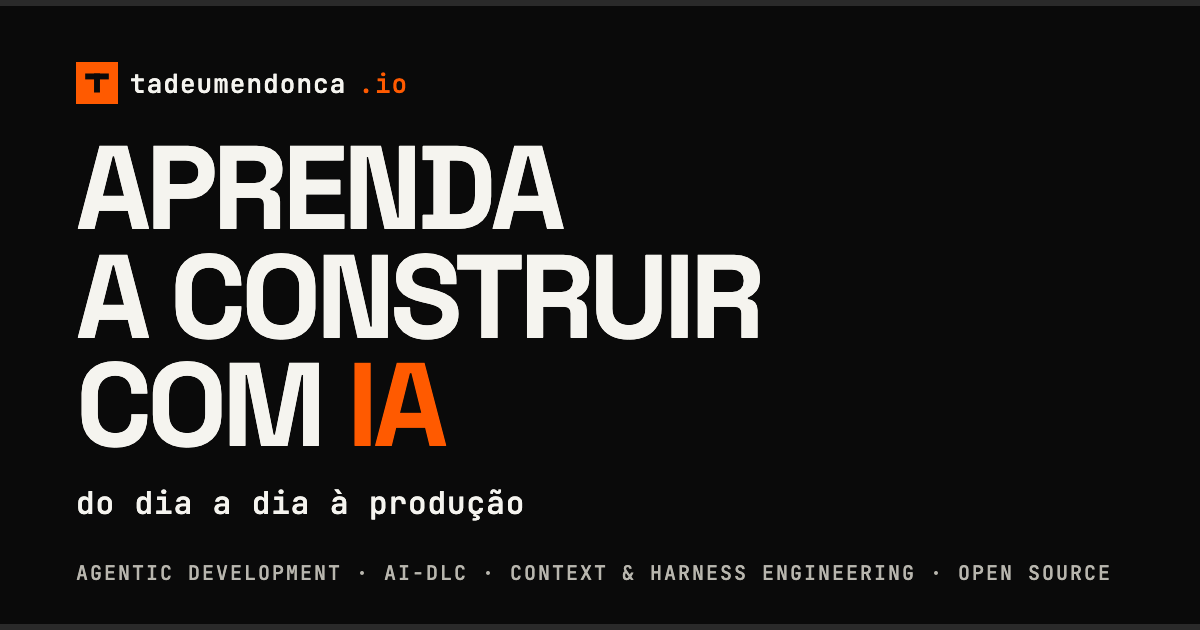
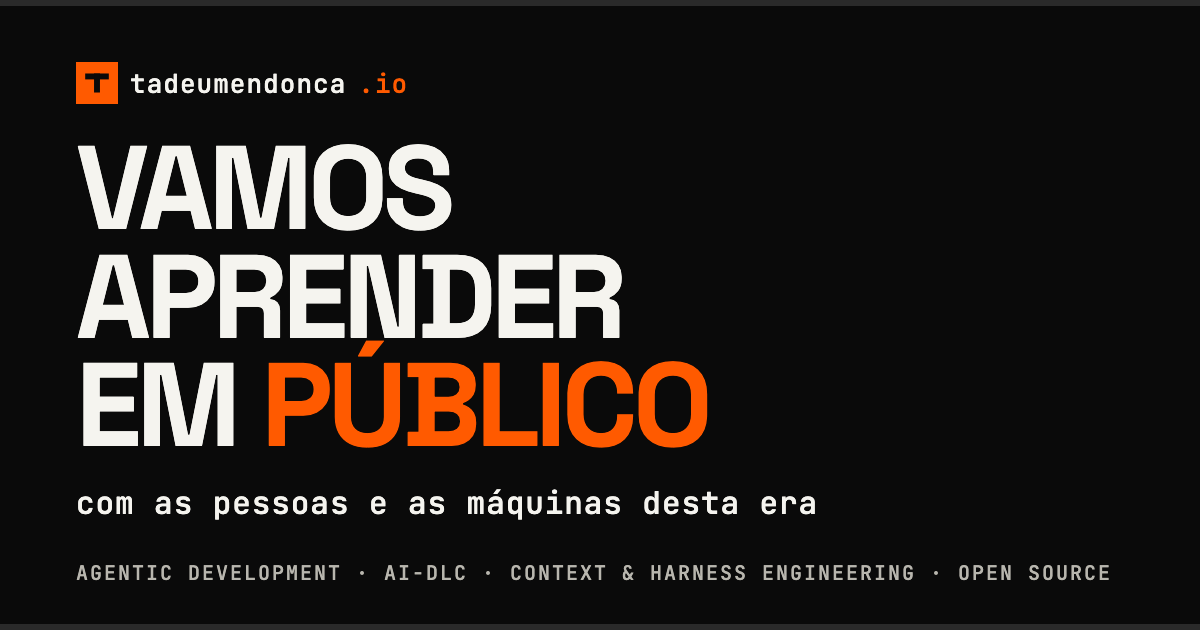
feat(fed): recenter first contact on learning in public
The landing hero (every hero.* key), the landing about panel, the
articles heading and subtitle, the library intro, the default meta
description in both locales, its pre-load copy in index.html and the
default card alt now state the mission: a personal, independent
commitment to learn in public with the people and machines of this era.

The default card copy follows the hero, and og-default.png and
og-default.pt.png are regenerated from it in this change. META_LINE is
unchanged by owner decision, so no per-article card regenerates.

src/lib/mission.test.ts goes red if the retired proposition returns to
the hero, the about panel, the default description, the pre-load
description or the default card alt, and asserts the new one is there.
The two article-alt negatives are re-pointed at the current default
alt, and e2e/seo.spec.ts asserts the served landing head on /, /en/
and /pt/.

Refs #688

Claude-Session: https://claude.ai/code/session_01CG8mCS2QgL3G5XTLiDaNR6

diff --git a/apps/fed/src/i18n/messages.ts b/apps/fed/src/i18n/messages.ts
@@ -121,21 +121,28 @@ const strings = {
     // but the LABEL is now "Stack", because that is what the strip lists. See Marquee.tsx.
     subjects: { pt: 'Stack', en: 'Stack' },
   },
+  // THE MISSION, SAID FIRST (#688). The site stopped leading with a proof-of-engineering proposition:
+  // it is a personal, independent commitment to learn in public with the people and machines of this
+  // era, turn lived experience into language and give back what is found. The tagline invites the
+  // reader in (`Let's` / `Vamos`), so the reader stays the subject; the body carries the personal
+  // framing, the ongoing-book structure and the sustainability bound, and names no vendor, plan or
+  // employer. The default card's hook is this tagline (scripts/og-copy.mjs), and
+  // `src/lib/mission.test.ts` goes red if the retired proposition comes back to any key here.
   hero: {
-    badge: { pt: 'Conteúdo técnico aberto', en: 'Open technical content' },
-    badgeAccent: { pt: '▶ Da vida pessoal à produção', en: '▶ From personal life to production' },
-    taglineLead: { pt: 'Aprenda a construir com IA —', en: 'Learn to build with AI —' },
-    taglineAccent: { pt: 'do dia a dia à produção', en: 'from everyday life to production' },
+    badge: { pt: 'Pessoal · independente', en: 'Personal · independent' },
+    badgeAccent: { pt: '▶ Da experiência à linguagem', en: '▶ Experience into language' },
+    taglineLead: { pt: 'Vamos aprender em público —', en: 'Let’s learn in public —' },
+    taglineAccent: { pt: 'com as pessoas e as máquinas desta era', en: 'with the people and machines of this era' },
     bodyLead: {
-      pt: 'Compartilho o que aprendo construindo com IA — de experimentos que automatizam a',
-      en: 'I share what I learn building with AI — from experiments that automate',
+      pt: 'Um esforço pessoal e independente: transformo em linguagem o que vivo com IA e devolvo o que descubro, como um livro em andamento, em',
+      en: 'A personal, independent effort: I turn what I live with AI into language and give back what I find, as an ongoing book in',
     },
-    bodyStrong1: { pt: 'vida pessoal com Claude Cowork', en: 'personal life with Claude Cowork' },
-    bodyConnector: { pt: 'a', en: 'to' },
+    bodyStrong1: { pt: 'capítulos situados', en: 'situated chapters' },
+    bodyConnector: { pt: 'e com', en: 'with' },
     bodyStrong2: { pt: 'agentic development', en: 'agentic development' },
     bodyTail: {
-      pt: '. Trade-offs reais e código aberto pra você aplicar, seja na sua rotina ou na sua empresa. O objetivo é te fazer construir melhor — quem escreve isso é consequência, não o ponto.',
-      en: '. Real trade-offs and open source for you to apply, whether in your routine or at your company. The goal is to help you build better — who writes it is a by-product, not the point.',
+      pt: ' como oficina aberta. Cada artigo é o que eu pensei num ponto da jornada, não uma palavra final; a Biblioteca guarda os livros que me ensinaram. Segue enquanto eu conseguir sustentar as ferramentas e a infraestrutura por trás disso — leve o que te ajudar.',
+      en: ' as its open workshop. Each article is what I thought at one point of the journey, not a final word; the Library keeps the books that taught me. It goes on for as long as I can sustain the tools and infrastructure behind it — take whatever helps you.',
     },
   },
   tracks: {
@@ -144,7 +151,8 @@ const strings = {
   },
   articles: {
     headingBold: { pt: 'Artigos', en: 'Articles' },
-    headingRest: { pt: 'pra você aplicar', en: 'to put to use' },
+    // Chapters, not a feed (#688): each article is a situated chapter of an ongoing book.
+    headingRest: { pt: 'capítulos em andamento', en: 'chapters in progress' },
     // The `· videos embedded in the text` half was dropped (owner, 2026-07-31). Both editions, because
     // this is one string with two renderings, not two decisions.
     //
@@ -157,9 +165,12 @@ const strings = {
     //
     // The per-item `hasVideo` badge is the right home for the claim, and stays: it can only ever be
     // true, because it is rendered from the article that has one.
+    //
+    // Reworded at #688: "technical writing with explicit trade-offs" sold the retired proposition. The
+    // line now states what a chapter is — a dated thought, not a final one.
     subtitle: {
-      pt: 'Escrita técnica com trade-offs explícitos',
-      en: 'Technical writing with explicit trade-offs',
+      pt: 'Cada um datado: o que eu pensei, onde eu estava',
+      en: 'Each one dated: what I thought, where I was',
     },
     filtersLabel: { pt: 'Filtrar por trilha', en: 'Filter by track' },
     filterAll: { pt: 'Tudo', en: 'All' },
@@ -414,9 +425,13 @@ const strings = {
     // books marked *(reading)* and *(on my list)* — a reading list, by the owner's own hand, one route
     // away. It lost nothing to drop: the rule was the payload, the contrast only its framing, and the
     // framing would have read worst exactly when the two surfaces get cross-linked.
+    //
+    // #688 reframed the first sentence from "the books behind how I work" to lineage: the shelf
+    // acknowledges what this writing received. The rule half is unchanged. The metaDescription below is
+    // deliberately NOT touched — it is pinned by scrapers and states a rule that is still true.
     intro: {
-      pt: 'Uma estante curta: os livros por trás de como eu trabalho. Cada um entra com nota de 1 a 5 e uma frase do que eu tirei dele — e só entra o que eu terminei.',
-      en: 'A short shelf: the books behind how I work. Each one goes up with a 1–5 rating and a line on what I took from it — and only what I have finished gets in.',
+      pt: 'Uma estante curta: os livros com que aprendi, a linhagem de onde esta escrita vem. Cada um entra com nota de 1 a 5 e uma frase do que eu tirei dele — e só entra o que eu terminei.',
+      en: 'A short shelf: the books I learnt from, the lineage this writing comes out of. Each one goes up with a 1–5 rating and a line on what I took from it — and only what I have finished gets in.',
     },
     // THIS ONE STRING IS THE SERP SNIPPET, and it is why the rule form above is not a style preference.
     // `useDocumentHead` puts it in three places at once — <meta name="description">, `og:description`
@@ -620,9 +635,11 @@ const strings = {
   },
   about: {
     heading: { pt: 'Sobre este site', en: 'About this site' },
+    // Recentered with the hero at #688: the landing's second statement of what this is must not still
+    // say "about AI engineering" one screen below a hero that says something else.
     body: {
-      pt: 'Escrevo e construo em público sobre engenharia de IA. Se algo aqui te ajudou a evoluir, cumpriu o papel.',
-      en: 'I write and build in public about AI engineering. If something here helped you grow, it did its job.',
+      pt: 'Aprendo em público com as pessoas e as máquinas desta era, e escrevo o que descubro pelo caminho. Se algo aqui te ajudou, cumpriu o papel.',
+      en: 'I learn in public with the people and machines of this era, and write down what I find along the way. If something here helped you, it did its job.',
     },
     whoWrites: { pt: 'Quem escreve', en: 'Who writes this' },
   },

diff --git a/apps/fed/src/lib/mission.test.ts b/apps/fed/src/lib/mission.test.ts
@@ -1,0 +1,94 @@
+// The mission a reader meets first, guarded against the proposition it replaced (#688).
+//
+// The site used to lead with a harness-centered proof-of-engineering pitch: "a portfolio of automations
+// and technical writing", and a hero promising to teach the reader to build with AI "from everyday life
+// to production". #688 recentered it on a personal, independent commitment to learn in public with the
+// people and machines of this era. The carriers of that first contact are the hero keys, the landing's
+// about panel, the default description in both locales, its pre-load copy in index.html, and the default
+// card's alt text.
+//
+// WHY A NEGATIVE AND A POSITIVE TOGETHER. A list of retired phrases alone passes over an empty string,
+// and over any future wording that drifts back to the old proposition in new words. So each carrier is
+// also asserted to carry the new proposition in its own language. The retired list is derived from the
+// strings that actually shipped before #688, not from memory.
+//
+// Calibrated by mutating the SOURCE (messages.ts, site.ts, index.html), never this file — see the PR.
+import { describe, it, expect } from 'vitest';
+import indexHtml from '../../index.html?raw';
+import { strings } from '../i18n/messages';
+import { DEFAULT_DESCRIPTION_EN, DEFAULT_DESCRIPTION_PT, defaultDescription, ogImageAlt } from './site';
+import type { Locale } from '../i18n/config';
+
+const LOCALES: Locale[] = ['pt', 'en'];
+
+// The retired proposition, as it shipped. Case-insensitive, and hyphen-or-space for "proof-of-engineering"
+// so a re-spelling does not walk past it.
+const RETIRED = [
+  /proof[- ]of[- ]engineering/i,
+  /portfolio of automations/i,
+  /portf[oó]lio de automa[cç][oõ]es/i,
+  /learn to build with ai/i,
+  /aprenda a construir com ia/i,
+  /from everyday life to production/i,
+  /do dia a dia [àa] produ[cç][aã]o/i,
+  /open technical content/i,
+  /conte[uú]do t[eé]cnico aberto/i,
+  /the code (is|IS) the pitch/i,
+  /in public about AI engineering/i,
+  /em público sobre engenharia de IA/i,
+];
+
+// The new proposition, per locale: learning in public, with the people and machines of this era.
+const MISSION: Record<Locale, RegExp> = {
+  en: /learn in public with the people and machines of this era/i,
+  pt: /aprender em público com as pessoas e as máquinas desta era/i,
+};
+
+const heroText = (locale: Locale) => Object.values(strings.hero).map((entry) => entry[locale]).join(' ');
+
+const preloadDescription = /<meta name="description" content="([^"]*)"/.exec(indexHtml)?.[1] ?? '';
+
+describe('the retired proposition does not return to first contact', () => {
+  const carriers: [string, string][] = [
+    ...LOCALES.map((l): [string, string] => [`hero (${l})`, heroText(l)]),
+    ...LOCALES.map((l): [string, string] => [`landing about panel (${l})`, strings.about.body[l]]),
+    ...LOCALES.map((l): [string, string] => [`default description (${l})`, defaultDescription(l)]),
+    ...LOCALES.map((l): [string, string] => [`default card alt (${l})`, ogImageAlt(l)]),
+    ['index.html pre-load description', preloadDescription],
+  ];
+
+  it.each(carriers)('%s carries none of the retired phrases', (_name, text) => {
+    // A carrier that resolved to nothing would pass every negative below having checked nothing.
+    expect(text.length).toBeGreaterThan(20);
+    for (const phrase of RETIRED) expect(text).not.toMatch(phrase);
+  });
+});
+
+describe('the new proposition is what first contact says', () => {
+  it.each(LOCALES)('the %s hero tagline states it', (locale) => {
+    const tagline = `${strings.hero.taglineLead[locale].replace(/\s*—\s*$/, '')} ${strings.hero.taglineAccent[locale]}`;
+    expect(tagline).toMatch(MISSION[locale]);
+  });
+
+  it.each(LOCALES)('the %s default description states it, and keeps one market term', (locale) => {
+    const description = defaultDescription(locale);
+    expect(description).toMatch(MISSION[locale]);
+    expect(description).toContain('agentic development');
+  });
+
+  it('the pre-load description is the English default, word for word', () => {
+    expect(preloadDescription).toBe(DEFAULT_DESCRIPTION_EN);
+  });
+
+  // The negatives in useDocumentHead.test.tsx and e2e/seo.spec.ts assert an ARTICLE card's alt does not
+  // contain `vamos aprender em público`. That only means something while the default alt really carries
+  // those words; this pins the coupling, so moving the alt without moving those negatives goes red here.
+  it('the default card alt carries the words the article-alt negatives name', () => {
+    expect(ogImageAlt('pt')).toContain('vamos aprender em público');
+    expect(ogImageAlt('en')).toMatch(/learn in public, with the people and machines of this era/);
+  });
+
+  it('the two editions are two authored strings, not one copied', () => {
+    expect(DEFAULT_DESCRIPTION_PT).not.toBe(DEFAULT_DESCRIPTION_EN);
+  });
+});

diff --git a/apps/fed/src/lib/site.ts b/apps/fed/src/lib/site.ts
@@ -12,15 +12,21 @@ export const OG_IMAGE_WIDTH = '1200';
 export const OG_IMAGE_HEIGHT = '630';
 export const OG_IMAGE_TYPE = 'image/png';
 // Per-locale OG/meta description (ADR-0036 — per-locale prerender + hreflang). English is the canonical /
-// x-default edition (ADR-0024); pt-BR is a faithful translation. Reader-first: each leads with what the
-// reader gets, not with who wrote it — the name and job title are deliberately absent, the card sells the
-// promise and the site's own pages carry the person.
+// x-default edition (ADR-0024); pt-BR is an authored peer, not a mechanical translation. The name and
+// job title are deliberately absent: the description states the mission, and the site's own pages carry
+// the person.
+//
+// RECENTERED AT #688. The previous pair led with "a portfolio of automations" — the proof-of-engineering
+// proposition the site no longer leads with. The mission now comes first, and the one market term kept
+// here is `agentic development`, so a search reader still meets the practice by name. `apps/fed/index.html`
+// carries the English string as its pre-load description and `src/lib/mission.test.ts` asserts the two
+// agree, and that the retired proposition does not return to either.
 import type { Locale } from '../i18n/config';
 
 export const DEFAULT_DESCRIPTION_EN =
-  'A portfolio of automations and technical writing — agentic development and AI-native engineering, with the trade-offs made explicit.';
+  'A personal, independent effort to learn in public with the people and machines of this era — an ongoing book in situated chapters on agentic development.';
 export const DEFAULT_DESCRIPTION_PT =
-  'Um portfólio de automações e escrita técnica — agentic development e engenharia AI-native, com os trade-offs explícitos.';
+  'Um esforço pessoal e independente de aprender em público com as pessoas e as máquinas desta era — um livro em andamento, em capítulos situados sobre agentic development.';
 
 /** The default OG/meta description in the active locale. */
 export const defaultDescription = (locale: Locale): string =>
@@ -47,10 +53,11 @@ export const defaultOgImage = (locale: Locale): string => {
  * sentence over the Portuguese card would misdescribe it to exactly the reader who cannot see it.
  * Deliberately not derived from the hero tagline: this is prose about an image, not the image's copy.
  */
+// Rewritten with the card at #688: the alt has to describe the words actually on the regenerated card.
 export const ogImageAlt = (locale: Locale): string =>
   locale === 'pt'
-    ? `${SITE_NAME} — aprenda a construir com IA, do dia a dia à produção`
-    : `${SITE_NAME} — learn to build with AI, from everyday life to production`;
+    ? `${SITE_NAME} — vamos aprender em público, com as pessoas e as máquinas desta era`
+    : `${SITE_NAME} — let’s learn in public, with the people and machines of this era`;
 
 /**
  * Is this a card THIS BUILD generated, and therefore one whose 1200×630 we can honestly declare?

diff --git a/apps/fed/e2e/seo.spec.ts b/apps/fed/e2e/seo.spec.ts
@@ -211,6 +211,32 @@ test.describe('SEO discovery', () => {
     expect(offenders, `routes whose title is not their address:\n${offenders.join('\n')}`).toEqual([]);
   });
 
+  // #688. The landing's SERVED head carries the recentered mission in its own language, on all three
+  // addresses a reader or crawler meets first. Raw fetch on purpose: the prerendered bytes are what a
+  // scraper pins, and page.goto would pass on the hydrated head whether or not the snapshot carried it.
+  // The words are spelled out rather than imported, so a wrong catalog cannot make this pass.
+  test('the landing serves the recentered mission, not the retired proposition', async ({ request }) => {
+    const MISSION = {
+      en: 'A personal, independent effort to learn in public with the people and machines of this era',
+      pt: 'Um esforço pessoal e independente de aprender em público com as pessoas e as máquinas desta era',
+    };
+    const RETIRED = /proof[- ]of[- ]engineering|portfolio of automations|portfólio de automações|learn to build with AI|aprenda a construir com IA/i;
+    for (const [path, locale] of [
+      ['/', 'en'],
+      ['/en/', 'en'],
+      ['/pt/', 'pt'],
+    ] as const) {
+      const html = await (await request.get(path)).text();
+      const description = /<meta name="description" content="([^"]*)"/.exec(html)?.[1] ?? '';
+      const og = /property="og:description" content="([^"]*)"/.exec(html)?.[1] ?? '';
+      expect(description, `${path} meta description`).toContain(MISSION[locale]);
+      expect(og, `${path} og:description`).toContain(MISSION[locale]);
+      const head = /<head>[\s\S]*<\/head>/.exec(html)?.[0] ?? '';
+      expect(head.length, `${path} must serve a head`).toBeGreaterThan(100);
+      expect(head, `${path} head carries the retired proposition`).not.toMatch(RETIRED);
+    }
+  });
+
   // #269. Each article advertises its OWN card, per locale, and the card RESOLVES.
   //
   // The 200 is the point, not decoration. A per-article `og:image` that 404s is the least reversible
@@ -270,7 +296,9 @@ test.describe('SEO discovery', () => {
     expect(title?.startsWith(alt!), `og:image:alt "${alt}" must describe THIS article, not the default card`).toBe(
       true,
     );
-    expect(alt).not.toContain('aprenda a construir');
+    // Re-pointed at #688 to the current default alt's words; the retired phrase is emitted by nothing,
+    // so a negative against it could not fail.
+    expect(alt).not.toContain('vamos aprender em público');
   });
 
   // #272. The canonical is built from the ROUTE constant (useDocumentHead), never from the live URL, so

diff --git a/apps/fed/src/components/Hero.test.tsx b/apps/fed/src/components/Hero.test.tsx
@@ -23,18 +23,22 @@ describe('Hero', () => {
     expect(screen.getByRole('heading', { level: 1 })).toHaveClass('whitespace-nowrap');
   });
 
-  it('states the reader-first promise for both audiences (pt-BR chrome)', () => {
+  // #688: the hero leads with the mission — learning in public, the ongoing book of situated chapters,
+  // and the sustainability bound — not with a promise to build things for production.
+  it('states the mission a pt reader meets first', () => {
     renderHero('pt');
-    expect(screen.getByText(/do dia a dia à produção/)).toBeInTheDocument();
-    expect(screen.getByText(/vida pessoal com Claude Cowork/)).toBeInTheDocument();
+    expect(screen.getByText(/com as pessoas e as máquinas desta era/)).toBeInTheDocument();
+    expect(screen.getByText('capítulos situados')).toBeInTheDocument();
     expect(screen.getByText(/agentic development/)).toBeInTheDocument();
+    expect(screen.getByText(/enquanto eu conseguir sustentar as ferramentas e a infraestrutura/)).toBeInTheDocument();
   });
 
-  it('renders the promise in English when the locale is en', () => {
+  it('states the mission in English when the locale is en', () => {
     renderHero('en');
-    expect(screen.getByText(/from everyday life to production/)).toBeInTheDocument();
-    expect(screen.getByText(/personal life with Claude Cowork/)).toBeInTheDocument();
+    expect(screen.getByText(/with the people and machines of this era/)).toBeInTheDocument();
+    expect(screen.getByText('situated chapters')).toBeInTheDocument();
     expect(screen.getByText(/agentic development/)).toBeInTheDocument();
+    expect(screen.getByText(/as long as I can sustain the tools and infrastructure/)).toBeInTheDocument();
   });
 
   it('offers the articles CTA as a landing anchor', () => {

diff --git a/apps/fed/src/hooks/useDocumentHead.test.tsx b/apps/fed/src/hooks/useDocumentHead.test.tsx
@@ -59,7 +59,7 @@ describe('useDocumentHead', () => {
     renderHook(() => useDocumentHead({ title: 'Perfil', canonicalPath: '/me' }), { wrapper: wrapperAt('pt') });
     expect(metaContent('meta[property="og:image"]')).toBe('https://tadeumendonca.io/og-default.pt.png');
     expect(metaContent('meta[property="og:image:alt"]')).toBe(
-      'tadeumendonca.io — aprenda a construir com IA, do dia a dia à produção',
+      'tadeumendonca.io — vamos aprender em público, com as pessoas e as máquinas desta era',
     );
   });
 
@@ -214,7 +214,7 @@ describe('useDocumentHead', () => {
     expect(metaContent('meta[property="og:image:height"]')).toBe('630');
     expect(metaContent('meta[property="og:image:type"]')).toBe('image/png');
     expect(metaContent('meta[property="og:image:alt"]')).toBe(
-      'tadeumendonca.io — learn to build with AI, from everyday life to production',
+      'tadeumendonca.io — let’s learn in public, with the people and machines of this era',
     );
   });
 
@@ -268,7 +268,9 @@ describe('useDocumentHead', () => {
       { wrapper: wrapperAt('pt') },
     );
     expect(metaContent('meta[property="og:image:alt"]')).toBe('Meu compromisso');
-    expect(metaContent('meta[property="og:image:alt"]')).not.toContain('aprenda a construir');
+    // Re-pointed at #688 to the CURRENT default alt's words. Against the retired phrase this arm passed
+    // whatever the code did, because nothing emits that phrase any more.
+    expect(metaContent('meta[property="og:image:alt"]')).not.toContain('vamos aprender em público');
   });
 
   it('drops the dimensions for an image the build did not generate, rather than lying about its size', () => {

diff --git a/apps/fed/e2e/per-locale.spec.ts b/apps/fed/e2e/per-locale.spec.ts
@@ -593,11 +593,12 @@ test.describe('per-locale default OG card', () => {
     // — that is the CloudFront Function's job and `edge-rewrite.spec.ts` is what proves it runs.
     const pt = await (await request.get('/pt/me/')).text();
     expect(pt).toContain(`property="og:image" content="${SITE}/og-default.pt.png"`);
-    expect(pt).toContain('property="og:image:alt" content="tadeumendonca.io — aprenda a construir com IA');
+    // The alt follows the card's words, recentered at #688.
+    expect(pt).toContain('property="og:image:alt" content="tadeumendonca.io — vamos aprender em público');
 
     const en = await (await request.get('/en/me/')).text();
     expect(en).toContain(`property="og:image" content="${SITE}/og-default.png"`);
-    expect(en).toContain('property="og:image:alt" content="tadeumendonca.io — learn to build with AI');
+    expect(en).toContain('property="og:image:alt" content="tadeumendonca.io — let’s learn in public');
   });
 
   // Both cards must actually be SERVED — the head can advertise a URL the deploy never uploaded, and a

diff --git a/apps/fed/src/components/Hero.tsx b/apps/fed/src/components/Hero.tsx
@@ -1,6 +1,9 @@
 // Hero (/frontend/design-system) — the signature surface. The title is the BRAND, not the person:
-// the owner's name and bio live on /me. Copy is reader-first (what you walk away knowing), and it
-// speaks to both audiences: personal-life automation and engineering in production.
+// the owner's name and bio live on /me. ~~Copy is reader-first (what you walk away knowing), and it
+// speaks to both audiences: personal-life automation and engineering in production.~~ Struck at #688:
+// the copy now states the mission first — a personal, independent commitment to learn in public with
+// the people and machines of this era — and the tagline invites the reader in rather than promising a
+// production outcome. The words live in i18n/messages.ts (`hero.*`).
 //
 // The title is a single unbreakable line (whitespace-nowrap) that scales with the viewport, so the
 // brand never wraps mid-word — hence the reduced clamp ceiling compared to the hero font size.

diff --git a/apps/fed/index.html b/apps/fed/index.html
@@ -3,8 +3,8 @@
   <head>
     <meta charset="UTF-8" />
     <meta name="viewport" content="width=device-width, initial-scale=1.0" />
-    <!-- Keep in sync with DEFAULT_DESCRIPTION in src/lib/site.ts — this is the pre-hydration copy. -->
-    <meta name="description" content="A portfolio of automations and technical writing — agentic development and AI-native engineering, with the trade-offs made explicit." />
+    <!-- Keep in sync with DEFAULT_DESCRIPTION in src/lib/site.ts — this is the pre-hydration copy. src/lib/mission.test.ts asserts it. -->
+    <meta name="description" content="A personal, independent effort to learn in public with the people and machines of this era — an ongoing book in situated chapters on agentic development." />
     <link rel="icon" type="image/svg+xml" href="/favicon.svg" />
     <link rel="apple-touch-icon" href="/apple-touch-icon-180x180.png" />
     <meta name="theme-color" content="#0A0A0A" />

diff --git a/apps/fed/src/hooks/useDocumentHead.ts b/apps/fed/src/hooks/useDocumentHead.ts
@@ -50,7 +50,7 @@ export interface DocumentHead {
    * Alt text for `image`, when the caller has one.
    *
    * Required in practice for any custom card, because the alternative is worse than silence: the
-   * default card's alt describes the DEFAULT card ("learn to build with AI…"), so reusing it on an
+   * default card's alt describes the DEFAULT card ("let’s learn in public…" since #688), so reusing it on an
    * article would tell a screen-reader user they are being shown a picture they are not being shown.
    * Falls back to the locale's default-card alt, which is only correct when the image IS that card.
    */
